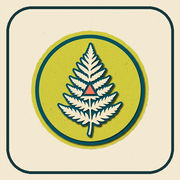
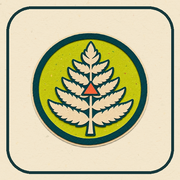
Regenerate the paper-cut art with OpenAI gpt-image-2.6
- Replace every character, hurt frame, portrait, weapon card, crate, emblem,
  background and paper texture with the OpenAI 2.6 flare set
- Rebuild the OG card, app icons and favicon from the new art
- Keep transparent sprites clean by thresholding away generated cast shadows
- Update art-direction generation notes and bump the offline cache version

diff --git a/public/sw.js b/public/sw.js
@@ -1,4 +1,4 @@
-const CACHE = "pocket-siege-v2";
+const CACHE = "pocket-siege-v3";
 
 async function precache() {
   const cache = await caches.open(CACHE);

diff --git a/README.md b/README.md
@@ -72,7 +72,7 @@ MIT. Worms and Worms Armageddon are trademarks of their respective owners. This 
 
 The current **Paper-Cut Expedition** pass uses layered construction paper, screenprint grain, ink outlines and a cream/teal/moss/coral palette. It replaces the earlier gouache jungle with a paper-cut backdrop and emblem, new body and hurt frames, full portraits, five weapon cards, a crate sprite, paper-grain UI surfaces and a matching OG card. Assets and exact prompts are in [`public/art/ART-DIRECTION.md`](public/art/ART-DIRECTION.md).
 
-OpenAI `gpt-image-1.5` was attempted first but the supplied key had no image credits. The pass was generated with Gemini 3.1 Flash Image; the prompts are provider-neutral and can be rerun with OpenAI once image credits are available. The share card, icons and favicon are composed locally by `scripts/make-brand-assets.py`. Soldier sprites breathe, bob when walking, and face the aiming direction; the terrain is paper strata with a cream cut rim, stone flecks and chartreuse grass.
+The final art pass was generated with **OpenAI `gpt-image-2.6-flare`** at high quality: transparent character, hurt, portrait, weapon, crate and emblem sprites, plus an opaque paper backdrop and texture. The prompts are documented and provider-neutral. The share card, icons and favicon are composed locally by `scripts/make-brand-assets.py`. Soldier sprites breathe, bob when walking, and face the aiming direction; the terrain is paper strata with a cream cut rim, stone flecks and chartreuse grass.
 
 ## Combat feedback
 

diff --git a/public/art/ART-DIRECTION.md b/public/art/ART-DIRECTION.md
@@ -11,7 +11,7 @@ The game now uses a tactile **cut-paper diorama** direction instead of the earli
 
 ## Generation note
 
-The supplied OpenAI key was valid but returned `credit_balance_exhausted` for image generation. This pass was generated with the available **Gemini 3.1 Flash Image** key. The prompts below are provider-neutral and can be rerun with OpenAI `gpt-image-1.5` once image credits are added. Sprites were generated on a flat `#ff00ff` chroma matte, keyed with a magenta/green score, edge-decontaminated, alpha-eroded one pixel, trimmed and normalised to WebP.
+The final pass was generated with **OpenAI `gpt-image-2.6-flare`** at high quality. Character/prop sprites and the emblem were generated on true transparent backgrounds; the backdrop and paper texture are opaque. An earlier Gemini fallback was replaced by this OpenAI pass. Sprites were alpha-thresholded to remove the generated soft cast shadow, trimmed, normalised and saved as WebP.
 
 ## Files
 
